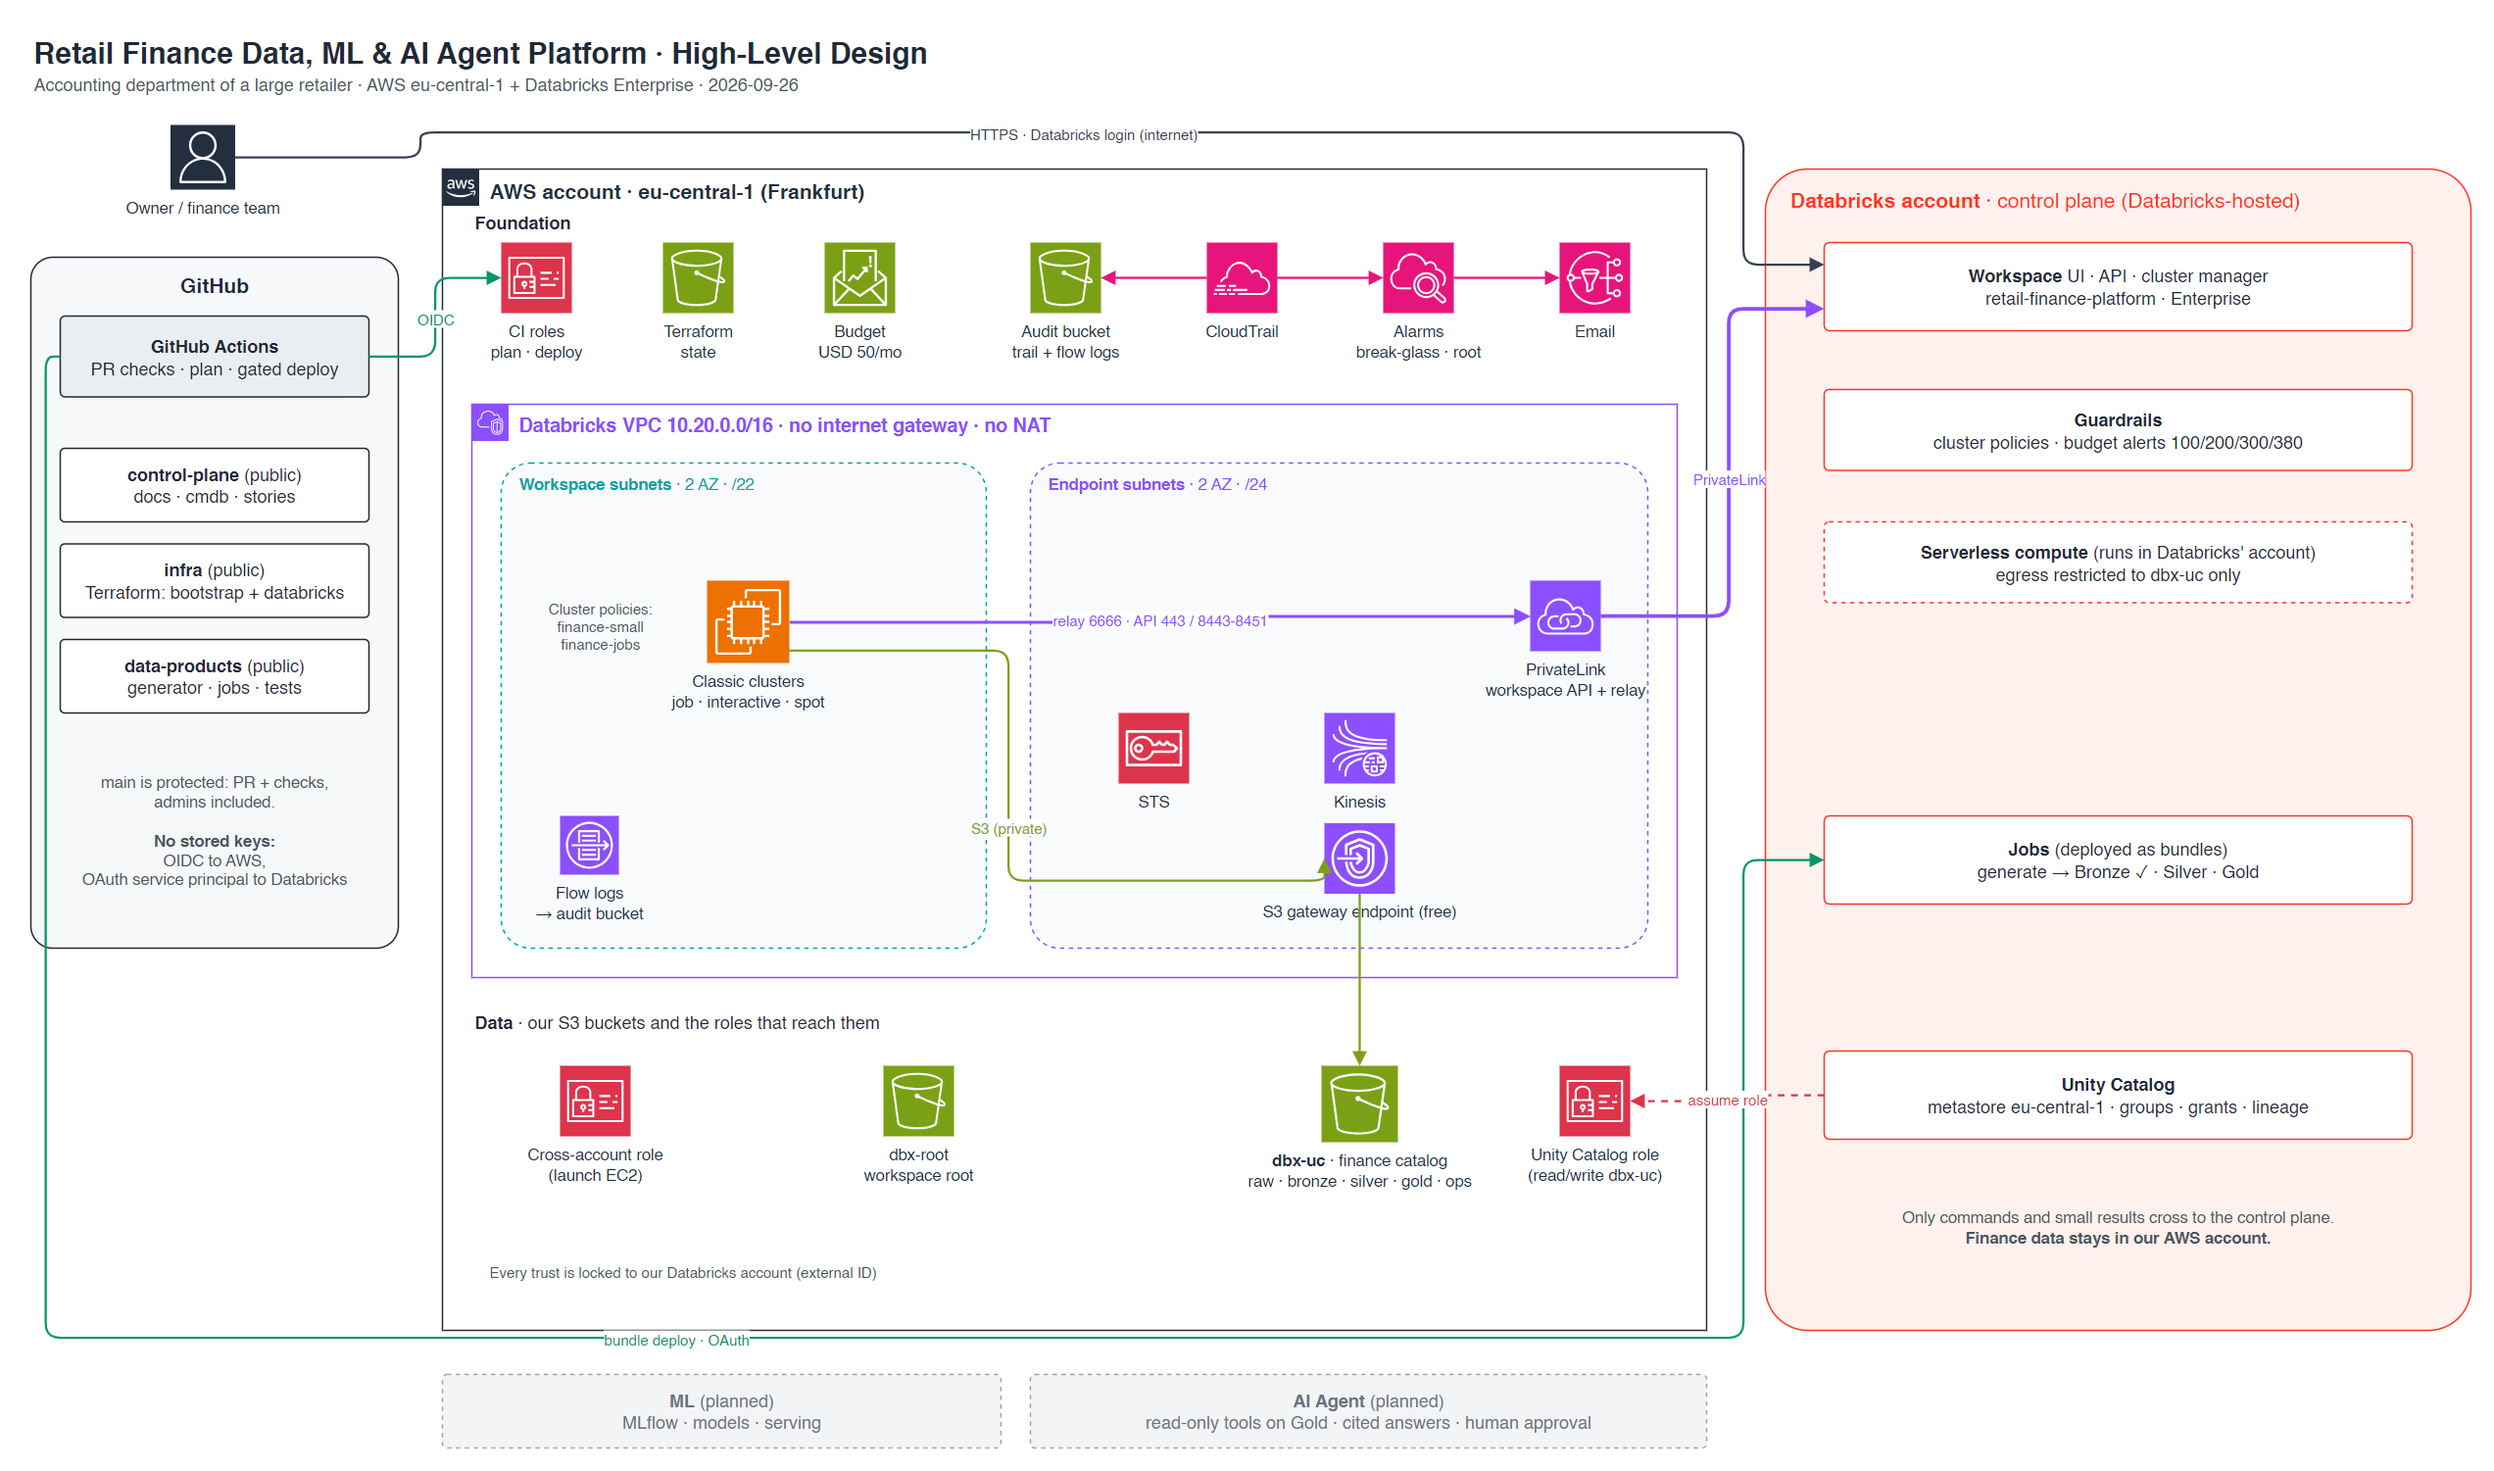
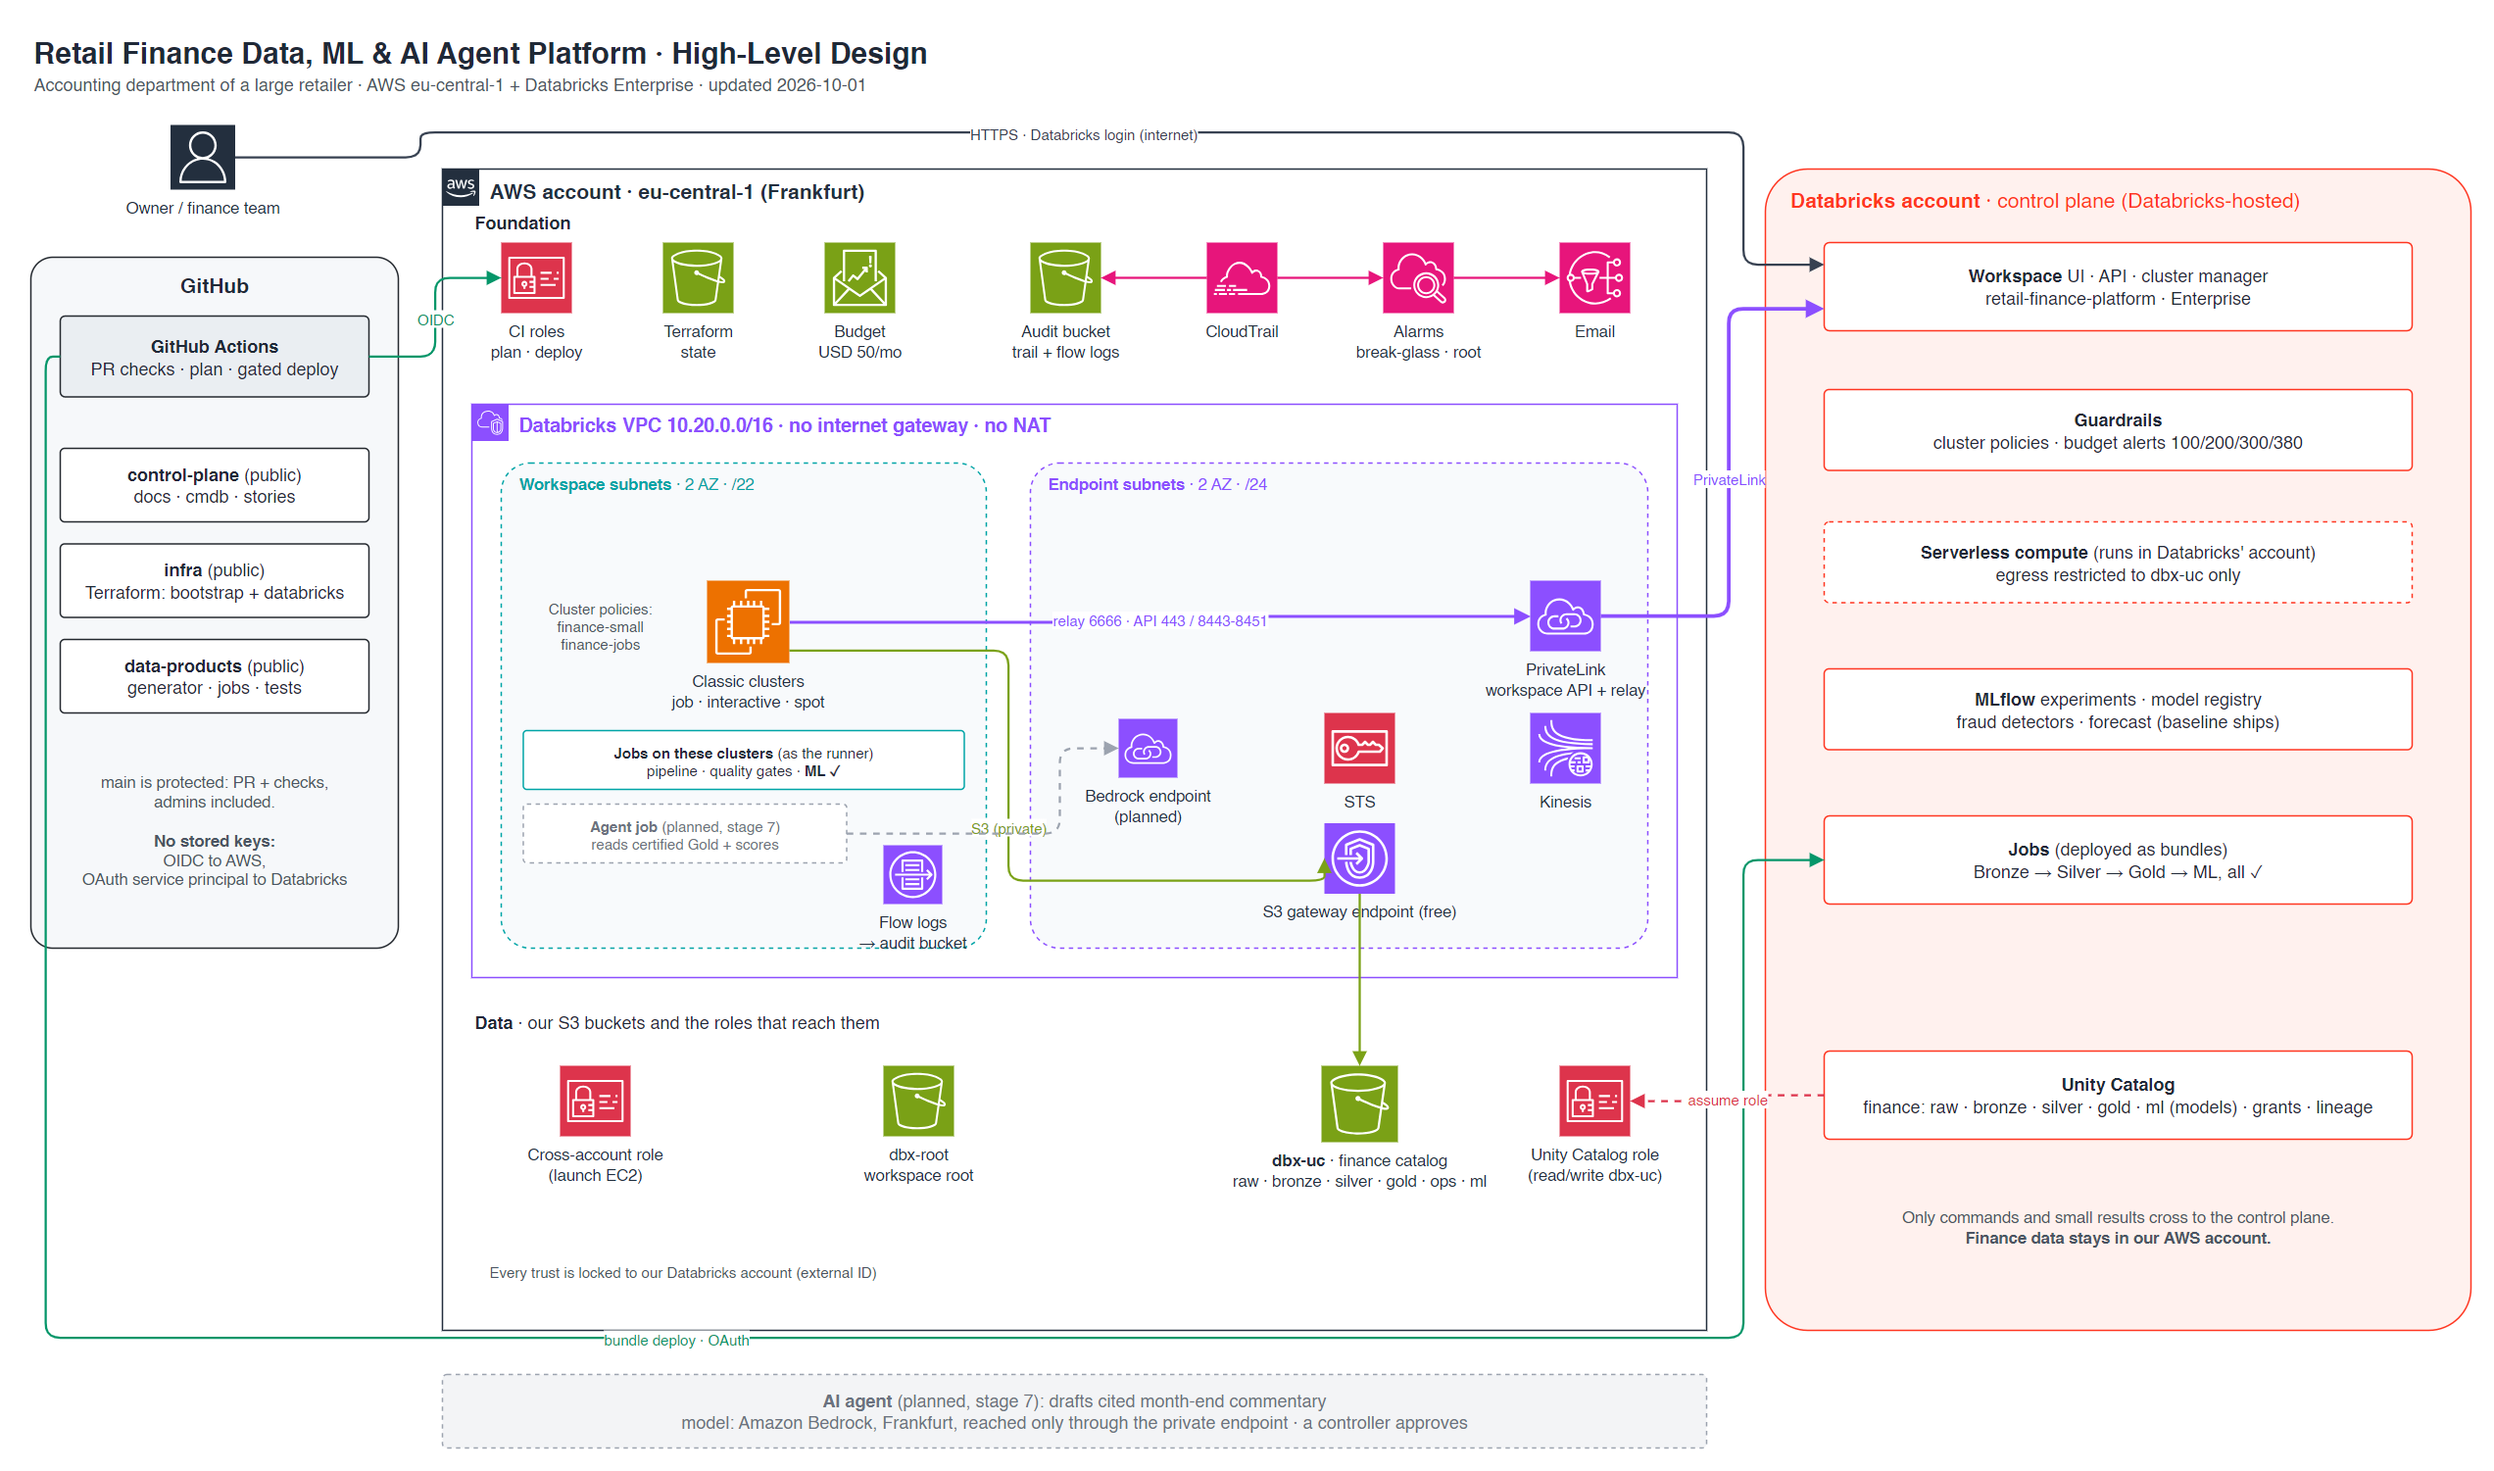
docs: HLD shows ML and the planned agent where they run; add LLD 5 (ML)
The HLD drew ML and the agent as floating 'planned' boxes. ML now sits on the VPC cluster with MLflow and the finance.ml registry in the control plane; the agent job and a planned Bedrock private endpoint sit in the VPC. New LLD 5 explains the ML job: certified-Gold gate, detectors, forecast vs baseline, outputs, results, limits. HLD page (TL;DR, zones, flows, LLD table), README, X.1, stories 5.1/5.2 and cmdb updated.

diff --git a/docs/architecture/hld.md b/docs/architecture/hld.md
@@ -2,7 +2,7 @@
 
 **Contents:** [TL;DR](#tldr) · [Diagram](#diagram) · [The four zones](#the-four-zones) · [Key flows](#key-flows) · [Design choices](#design-choices) · [Zoom in (LLDs)](#zoom-in-llds) · [Edit the diagram](#edit-the-diagram)
 
-Updated 2026-09-26. Detail: [`cmdb.yml`](../../cmdb.yml) → `architecture`, `decisions`. How it was built: [stories](../stories/README.md).
+Updated 2026-10-01. Detail: [`cmdb.yml`](../../cmdb.yml) → `architecture`, `decisions`. How it was built: [stories](../stories/README.md).
 
 ## TL;DR
 
@@ -13,8 +13,8 @@ Updated 2026-09-26. Detail: [`cmdb.yml`](../../cmdb.yml) → `architecture`, `de
 | Where is the finance data? | Only in our S3 buckets. Databricks sends commands, not data |
 | How do clusters reach Databricks? | PrivateLink. The VPC has no internet gateway and no NAT |
 | Who changes it? | Only CI/CD, through pull requests. No stored cloud keys |
-| What is live? | Foundation, private workspace, Unity Catalog, Bronze data |
-| What is next? | Silver and Gold tables, then ML, then the agent |
+| What is live? | Private workspace, Bronze → Silver → Gold, reconciliation, quality gates, fraud models, forecast |
+| What is next? | Scheduling and drift checks, then the AI agent (job in our VPC, Bedrock over a private endpoint) |
 
 ## Diagram
 
@@ -28,13 +28,13 @@ Updated 2026-09-26. Detail: [`cmdb.yml`](../../cmdb.yml) → `architecture`, `de
 |---|---|---|
 | **GitHub** | 3 repos, Actions (PR checks, plan, gated deploy) | [LLD 2](lld-identity-cicd.md) |
 | **AWS foundation** | CI roles, Terraform state, budget, audit trail, alarms | [LLD 4](lld-observability-cost.md) |
-| **AWS Databricks VPC** | Classic clusters, private endpoints, flow logs | [LLD 1](lld-network.md) |
+| **AWS Databricks VPC** | Classic clusters running every job (pipeline, quality gates, ML; agent planned), private endpoints, flow logs | [LLD 1](lld-network.md), [LLD 5](lld-ml.md) |
 | **AWS data** | `dbx-root`, `dbx-uc` (finance catalog), the roles that reach them | [LLD 3](lld-data-platform.md) |
-| **Databricks** | Workspace, guardrails, jobs, Unity Catalog, serverless (restricted) | [LLD 3](lld-data-platform.md) |
+| **Databricks** | Workspace, guardrails, jobs, MLflow, Unity Catalog (incl. `finance.ml` models), serverless (restricted) | [LLD 3](lld-data-platform.md), [LLD 5](lld-ml.md) |
 
 ## Key flows
 
-> **TL;DR:** five arrows matter. Only the login uses the internet.
+> **TL;DR:** six arrows matter. Only the login uses the internet.
 
 | # | Flow | Path | Protection |
 |---|---|---|---|
@@ -42,7 +42,8 @@ Updated 2026-09-26. Detail: [`cmdb.yml`](../../cmdb.yml) → `architecture`, `de
 | 2 | Clusters talk to Databricks | Cluster → PrivateLink → control plane | No internet route, SG ports 443/6666/8443-8451 |
 | 3 | Clusters read and write data | Cluster → S3 gateway endpoint → `dbx-uc` | Unity Catalog role, bucket policies |
 | 4 | Infra changes | Actions → OIDC → CI roles | Short-lived tokens, trust pinned to repo + branch |
-| 5 | Job changes | Actions → OAuth → bundle deploy | Service principal, jobs run as it |
+| 5 | Job changes | Actions → OAuth → bundle deploy | Deployer identity; jobs run as the runner |
+| 6 | Agent calls a model (planned) | Agent job → Bedrock private endpoint | No internet path; EU region; human approval |
 
 ## Design choices
 
@@ -65,8 +66,9 @@ Updated 2026-09-26. Detail: [`cmdb.yml`](../../cmdb.yml) → `architecture`, `de
 | [2 · Identity & CI/CD](lld-identity-cicd.md) | Who can change what, and how? | [1.2](../stories/1.2-passwordless-cicd.md), [1.3](../stories/1.3-least-privilege-deploy-role.md), [2.3](../stories/2.3-workspace-as-code.md) |
 | [3 · Data platform](lld-data-platform.md) | How do files become trusted finance tables? | [2.4](../stories/2.4-unity-catalog-on-our-s3.md), [3.1](../stories/3.1-synthetic-accounting-data.md), [3.2](../stories/3.2-catalog-and-bundle-deploy.md), [4.x](../stories/README.md#epic-4--transform--quality) |
 | [4 · Observability & cost](lld-observability-cost.md) | What is recorded, what alerts, what limits spend? | [1.4](../stories/1.4-audit-and-alarms.md), [2.5](../stories/2.5-guardrails.md) |
+| [5 · ML](lld-ml.md) | How are frauds found and revenue forecast, from certified Gold? | [5.1](../stories/5.1-fraud-detection.md), [5.2](../stories/5.2-revenue-forecast.md) |
 
-ML and AI agent LLDs will follow when those stages start. New to Databricks? Read the [primer](databricks-primer.md) first.
+The AI agent LLD (6) follows when stage 7 starts. New to Databricks? Read the [primer](databricks-primer.md) first.
 
 ## Edit the diagram
 

diff --git a/docs/architecture/lld-ml.md b/docs/architecture/lld-ml.md
@@ -1,0 +1,70 @@
+# LLD 5 · ML
+
+**Contents:** [TL;DR](#tldr) · [Diagram](#diagram) · [Inputs and gate](#inputs-and-gate) · [Models](#models) · [Outputs](#outputs) · [Results](#results) · [Limits](#limits)
+
+Updated 2026-10-01. Back to [HLD](hld.md). Stories: [5.1](../stories/5.1-fraud-detection.md) · [5.2](../stories/5.2-revenue-forecast.md).
+Detail: [data `cmdb.yml`](https://github.com/kheuchi/retail-finance-data-products/blob/main/cmdb.yml) → `ml` · [`cmdb.yml`](../../cmdb.yml) → `risks` (R-12).
+Code: `src/retail_finance_data/jobs/ml.py`, `resources/ml.job.yml`.
+
+## TL;DR
+
+| Question | Answer |
+|---|---|
+| What runs? | One job, `train_models`: two fraud detectors and a revenue forecast |
+| Where? | On our own job cluster in the private VPC, as `finance-pipeline-runner` |
+| On what data? | Gold only, and only if the latest Gold build is certified |
+| Labels? | None for training; the planted anomalies only score the result |
+| Where do models go? | MLflow experiment `finance-ml`, registered in Unity Catalog `finance.ml` |
+| What do people read? | `gold.fraud_scores`, `gold.margin_alerts`, `gold.revenue_forecast` |
+
+## Diagram
+
+![ML LLD](lld-ml.png)
+
+## Inputs and gate
+
+> **TL;DR:** no certified Gold, no models.
+
+The job reads the latest row of `ops.gold_certification` ([4.4](../stories/4.4-quality-and-lineage.md)) and
+refuses to run unless it is certified. It reads four Gold tables; the answer key is optional and
+used only for evaluation.
+
+## Models
+
+> **TL;DR:** two unsupervised detectors and a forecast that must earn its place.
+
+| Model | Method | Compares each case with |
+|---|---|---|
+| Cashier refunds | Isolation Forest | The other cashiers of the same store, that month |
+| Store margin drift | Isolation Forest | The store's own months 4-12 back, net of what moved for every store |
+| Revenue forecast | Gradient boosting vs seasonal-naive baseline | A backtest on the last 3 complete months; the winner ships |
+
+## Outputs
+
+> **TL;DR:** compute, log, register, then write: Gold is never left half-updated.
+
+| Output | Content |
+|---|---|
+| MLflow | Parameters, metrics (rank of the planted case, false alarms per month, MAPE per month), models |
+| `finance.ml` | `fraud_cashier_refunds`, `fraud_store_margin` (+ `revenue_forecast` when the model wins) |
+| Gold | Scores and forecasts, each row with `gold_run` and `scored_at` |
+
+## Results
+
+> **TL;DR:** both frauds ranked #1; the baseline forecast wins fairly.
+
+| | Result (2026-09-29) |
+|---|---|
+| Cashier detector | S017-C03 #1 in Aug and Sep; 3 and 1 false alarms |
+| Margin detector | S031 #1 in Jul, Aug, Sep; 0, 1, 0 false alarms |
+| Forecast | Baseline 7.5% vs model 10.3% MAPE (200 training rows per horizon): baseline ships |
+
+## Limits
+
+> **TL;DR:** stated, not hidden.
+
+| Limit | Why it is acceptable here |
+|---|---|
+| Detectors score in-sample | Batch, retrospective review queue, not real-time decisions |
+| Employee-level scores readable by analysts (R-12) | Pseudonymous IDs, synthetic data; production would restrict to internal audit |
+| 21 months of history | Too little for the model to beat a year-over-year baseline; revisit with more data |

diff --git a/README.md b/README.md
@@ -14,8 +14,8 @@ anomaly detection, and an AI agent that drafts cited analysis for a human to app
 
 [![High-level design](docs/architecture/hld.png)](docs/architecture/hld.md)
 
-Click the diagram for the HLD; it links to the four LLDs (network, identity & CI/CD,
-data platform, observability & cost).
+Click the diagram for the HLD; it links to the five LLDs (network, identity & CI/CD,
+data platform, observability & cost, ML).
 
 ## Where we are
 
@@ -33,7 +33,7 @@ data platform, observability & cost).
 |---|---|
 | [STATUS.md](STATUS.md) | Status and roadmap: where we are, where we go |
 | [AGENTS.md](AGENTS.md) | Rules and way of working, for any AI assistant or new contributor |
-| [docs/architecture/](docs/architecture/hld.md) | HLD + 4 LLDs, with draw.io sources |
+| [docs/architecture/](docs/architecture/hld.md) | HLD + 5 LLDs, with draw.io sources |
 | [Databricks primer](docs/architecture/databricks-primer.md) | Every Databricks term used here, in plain words |
 | [docs/stories/MEMO.md](docs/stories/MEMO.md) | **One page**: what we built, the tricky parts, the top 10 lessons |
 | [docs/stories/](docs/stories/README.md) | How each piece was built and the tricky parts; planned stories for what is next |

diff --git a/docs/stories/X.1-documentation-system.md b/docs/stories/X.1-documentation-system.md
@@ -9,7 +9,7 @@ As-built · Cross-cutting · 2026-09-14 → 09-26 · All repos · ✅ Done (livi
 | | |
 |---|---|
 | Goal | Anyone, including future you, understands the project in minutes |
-| Built | Short `.md` docs, `cmdb.yml` inventory per repo, HLD + 4 LLDs in draw.io, stories |
+| Built | Short `.md` docs, `cmdb.yml` inventory per repo, HLD + 5 LLDs in draw.io, stories |
 | Rule | Each fact lives in one place: cmdb = *what*, stories = *why and how* |
 | Hardest part | Keeping docs short while losing nothing |
 | Decision | D-024 |

diff --git a/docs/stories/5.1-fraud-detection.md b/docs/stories/5.1-fraud-detection.md
@@ -83,4 +83,4 @@ Registered: `finance.ml.fraud_cashier_refunds`, `finance.ml.fraud_store_margin`.
 ## References
 
 - cmdb: [data `cmdb.yml`](https://github.com/kheuchi/retail-finance-data-products/blob/main/cmdb.yml) → `anomalies` · [`cmdb.yml`](../../cmdb.yml) → `stories`
-- Docs: [LLD 3](../architecture/lld-data-platform.md) · [STATUS · Use cases](../../STATUS.md#use-cases)
+- Docs: [LLD 5 · ML](../architecture/lld-ml.md) · [LLD 3](../architecture/lld-data-platform.md) · [STATUS · Use cases](../../STATUS.md#use-cases)

diff --git a/docs/stories/5.2-revenue-forecast.md b/docs/stories/5.2-revenue-forecast.md
@@ -71,4 +71,4 @@ worth revisiting with more history or extra signals (promotions, holidays).
 ## References
 
 - cmdb: [`cmdb.yml`](../../cmdb.yml) → `stories`, `program.needs`
-- Docs: [LLD 3](../architecture/lld-data-platform.md) · [STATUS · Use cases](../../STATUS.md#use-cases)
+- Docs: [LLD 5 · ML](../architecture/lld-ml.md) · [LLD 3](../architecture/lld-data-platform.md) · [STATUS · Use cases](../../STATUS.md#use-cases)
